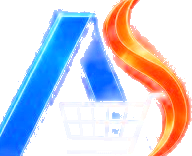
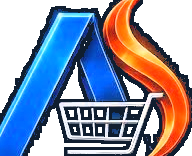
New Texas solar photo in solar band + Power division card; outline 4U cart emblem

diff --git a/index.html b/index.html
@@ -205,8 +205,6 @@
   .dv:hover{transform:translateY(-5px);box-shadow:var(--shadow-md);}
   .dv .im{aspect-ratio:16/10;overflow:hidden;position:relative;}
   .dv .im img{width:100%;height:100%;object-fit:cover;}
-  .dv .im.solar{background:linear-gradient(150deg,#16324F,#0d1c2e);display:grid;place-items:center;}
-  .dv .im.solar svg{width:64px;height:64px;color:var(--gold);}
   .dv .im .stamp{position:absolute;top:12px;right:12px;background:var(--gold);color:#1a1305;font-weight:800;font-size:10.5px;letter-spacing:.08em;text-transform:uppercase;border-radius:999px;padding:4px 11px;}
   .dv .bd{padding:0 22px 22px;display:flex;flex-direction:column;flex:1;}
   .dv .crest{height:56px;width:auto;align-self:flex-start;margin:-28px 0 10px;position:relative;z-index:2;filter:drop-shadow(0 5px 12px rgba(16,30,48,.3));}
@@ -605,7 +603,7 @@
         </div>
       </div>
       <div class="dv rv">
-        <div class="im solar"><span class="stamp">Newest Division</span><img src="assets/american-power-logo.png" alt="American Power — Own Your Power" style="height:118px;width:auto;filter:drop-shadow(0 0 22px rgba(232,163,61,.35));"></div>
+        <div class="im solar"><span class="stamp">Newest Division</span><img src="assets/solar-home.jpg" alt="Texas home with rooftop solar panels — American Power" loading="lazy"></div>
         <div class="bd"><img class="crest" src="assets/div-power.png" alt=""><h3>American Power</h3><div class="k">Renewable Energy Division</div>
           <ul><li>Residential &amp; commercial solar</li><li>Battery backup systems</li><li>EV charging solutions</li></ul>
           <div class="ph"><a href="#solar">Free energy analysis →</a></div>